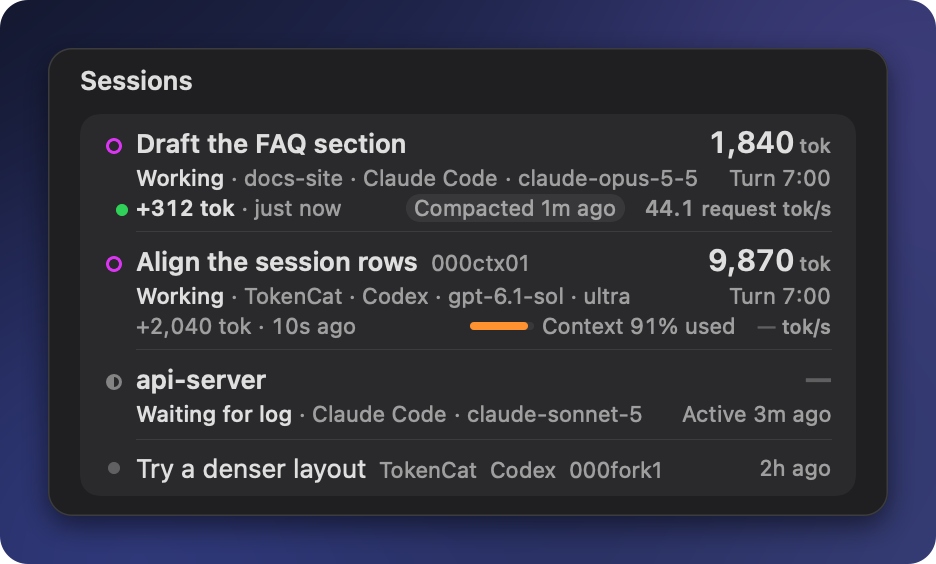
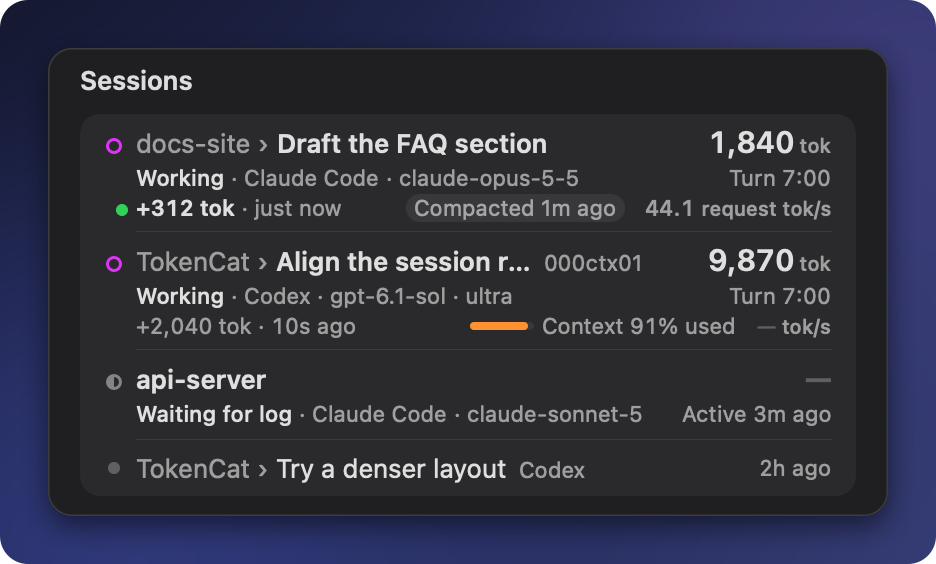
0.23.0: 세션 제목 앞에 프로젝트 폴더 표시, Windows 내레이터가 하위 에이전트 수를 읽음

diff --git a/Sources/TokenCat/DashboardView.swift b/Sources/TokenCat/DashboardView.swift
@@ -1655,8 +1655,12 @@ struct LiveSessionRow: View {
                 StateGlyphView(kind: StateGlyph.Kind(item.state) ?? .working, side: 8, contrast: high).frame(width: 10)
                     .alignmentGuide(.firstTextBaseline) { $0[.bottom] - 0.5 }
                     .padding(.leading, DashboardLayout.glyphX)
-                Text(SessionPresentation.rowTitle(reading)).font(TCFont.title).lineLimit(1).truncationMode(.tail).layoutPriority(2)
-                    .padding(.leading, DashboardLayout.textX - DashboardLayout.glyphX - 10)
+                HStack(alignment: .firstTextBaseline, spacing: 0) {
+                    ProjectPrefix(reading: reading, font: TCFont.title)
+                    Text(SessionPresentation.rowTitle(reading)).font(TCFont.title).lineLimit(1).truncationMode(.tail)
+                }
+                .layoutPriority(2)
+                .padding(.leading, DashboardLayout.textX - DashboardLayout.glyphX - 10)
                 if context.showsID(reading) {
                     Text(SessionPresentation.shortID(reading)).font(TCFont.meta).toneSecondary().lineLimit(1).fixedSize().padding(.leading, 6)
                 }
@@ -1712,12 +1716,9 @@ struct LiveSessionRow: View {
                 speed.known || item.state.expectsSpeed ? speed.spoken : nil].compactMap { $0 }.joined(separator: ", ")
     }
 
-    /// Keep the client identifiable; only the project and model may truncate in a dense state line.
+    /// Keep the client identifiable; only the model may truncate in a dense state line (the project leads line 1).
     private var clientMetadata: some View {
         HStack(alignment: .firstTextBaseline, spacing: 0) {
-            if let project = SessionPresentation.rowProject(reading) {
-                Text(" · " + project).lineLimit(1).truncationMode(.tail)
-            }
             Text(" · " + reading.clientTitle).fixedSize().layoutPriority(1)
             Text(" · " + [reading.model ?? loc("모델 기록 대기", "waiting for model"), SessionPresentation.effortLabel(reading)]
                 .compactMap { $0 }.joined(separator: " · "))
@@ -1844,13 +1845,28 @@ struct IdleSessionRow: View {
     /// Keep a titled row's project whole when it fits; long projects move to help before the client disappears.
     private func names(client: Bool, id: Bool, word: Bool, project showsProject: Bool = true) -> some View {
         HStack(alignment: .firstTextBaseline, spacing: 6) {
-            Text(SessionPresentation.rowTitle(reading)).font(TCFont.body).lineLimit(1).truncationMode(.tail).layoutPriority(2)
-            if showsProject, let project = SessionPresentation.rowProject(reading) {
-                Text(project).font(TCFont.meta).toneSecondary().lineLimit(1).fixedSize()
+            HStack(alignment: .firstTextBaseline, spacing: 0) {
+                if showsProject { ProjectPrefix(reading: reading, font: TCFont.body) }
+                Text(SessionPresentation.rowTitle(reading)).font(TCFont.body).lineLimit(1).truncationMode(.tail)
             }
+            .layoutPriority(2)
             if client { Text(reading.clientTitle).font(TCFont.meta).toneSecondary().lineLimit(1).fixedSize() }
             if word, let stateWord { Text(stateWord).font(TCFont.micro).toneSecondary().lineLimit(1).fixedSize() }
             if id { Text(SessionPresentation.shortID(reading)).font(TCFont.meta).toneSecondary().lineLimit(1).fixedSize() }
+        }
+    }
+}
+
+/// A titled row's project folder before its title (`SessionPresentation.projectPrefix`) in the secondary tone, kept whole
+/// while the title truncates; absent when the project already is the row's name.
+struct ProjectPrefix: View {
+    var reading: TokenReading
+    var font: Font
+
+    var body: some View {
+        let prefix = SessionPresentation.projectPrefix(reading)
+        if !prefix.isEmpty {
+            Text(prefix).font(font).fontWeight(.regular).toneSecondary().lineLimit(1).fixedSize()
         }
     }
 }

diff --git a/Sources/TokenCat/SessionPresentationChecks.swift b/Sources/TokenCat/SessionPresentationChecks.swift
@@ -153,6 +153,11 @@ func runSessionPresentationChecks() -> [String] {
           && SessionPresentation.titleHelp(titled) == "Fix login redirect · TokenCat" && SessionPresentation.titleHelp(modelled) == nil
           && SessionPresentation.spokenLabel(titled, state: .input) == "입력 필요, Fix login redirect, TokenCat, Claude Code claude-opus-5-5",
           "a titled row leads with its title and keeps the project as meta, in help and in VoiceOver")
+    var longProject = titled
+    longProject.project = "an-extremely-long-project-folder-name"
+    check(SessionPresentation.projectPrefix(titled) == "TokenCat › " && SessionPresentation.projectPrefix(modelled) == ""
+          && SessionPresentation.projectPrefix(titledNoProject) == "" && SessionPresentation.projectPrefix(longProject) == "an-extrem…older-name › ",
+          "a titled row is led by its project folder, a long folder keeping both ends; an untitled row is not")
     var roleChild = claudeChild
     roleChild.agentRole = "Explore"
     var reviewChild = codexChild

diff --git a/Sources/TokenCat/SessionPresentation.swift b/Sources/TokenCat/SessionPresentation.swift
@@ -553,6 +553,12 @@ enum SessionPresentation {
         return project
     }
 
+    /// "TokenCat › " before a titled row's name: a long folder keeps its ends; empty when the project already is the name.
+    static func projectPrefix(_ reading: TokenReading) -> String {
+        guard let project = rowProject(reading) else { return "" }
+        return (project.count > 20 ? project.prefix(9) + "…" + project.suffix(10) : project) + " › "
+    }
+
     /// A titled row's hover line: the whole title (the row cuts it) and the project.
     static func titleHelp(_ reading: TokenReading) -> String? {
         reading.title.map { title in [title, reading.project].compactMap { $0 }.joined(separator: " · ") }

diff --git a/windows/TokenCat.App/SessionList.cs b/windows/TokenCat.App/SessionList.cs
@@ -629,7 +629,7 @@ sealed class LiveRow : RowShell
     readonly TextBlock number = Ui.Line();
     readonly Run outputAmount = Ui.Run("", Font.Metric), outputUnit = Ui.Run(" tok", Font.Micro, Theme.Secondary);
     readonly TextBlock chipWords = Ui.Text("", Font.MetaMedium);
-    readonly TextBlock clientProject = TrimLine.Shrink(Ui.Text("", Font.Meta, Theme.Secondary));
+    readonly Run projectPrefix = Ui.Run("", Font.Title, Theme.Secondary), title = Ui.Run("", Font.Title);
     readonly TextBlock client = Ui.Text("", Font.Meta, Theme.Secondary);
     readonly TextBlock clientModel = TrimLine.Shrink(Ui.Text("", Font.Meta, Theme.Secondary));
     readonly TextBlock trailing = Ui.Text("", Font.MetaMono);
@@ -640,6 +640,9 @@ sealed class LiveRow : RowShell
     public LiveRow()
     {
         project.Margin = new Thickness(6, 0, 0, 0);
+        projectPrefix.FontWeight = FontWeights.Normal;
+        project.Inlines.Add(projectPrefix);
+        project.Inlines.Add(title);
         shortId.Margin = new Thickness(6, 0, 0, 0);
         chipWords.TextTrimming = TextTrimming.None;
         number.Inlines.Add(outputAmount);
@@ -650,7 +653,7 @@ sealed class LiveRow : RowShell
         first.Height = 18;
         // Keep the client name whole; the project and model divide the remaining metadata width.
         client.TextTrimming = TextTrimming.None;
-        var metadata = TrimLine.Shrink(new TrimLine(clientProject, client, clientModel));
+        var metadata = TrimLine.Shrink(new TrimLine(client, clientModel));
         var second = Dashboard.Spread(new TrimLine(chipWords, metadata), trailing);
         second.Height = 14;
         second.Margin = new Thickness(Dashboard.TextX, 2, 0, 0);
@@ -668,7 +671,8 @@ sealed class LiveRow : RowShell
         Bind(item.Id, reading, context, item.Height, context.Help(reading), SessionPresentation.SpokenLabel(reading, item.State));
         glyph.Kind = GlyphView.For(item.State) ?? StateGlyphKind.Working;
         chipWords.Text = SessionPresentation.ChipText(item.State, reading);
-        project.Text = SessionPresentation.RowTitle(reading);
+        projectPrefix.Text = SessionPresentation.ProjectPrefix(reading);
+        title.Text = SessionPresentation.RowTitle(reading);
         shortId.Visibility = context.ShowsID(reading) ? Visibility.Visible : Visibility.Collapsed;
         shortId.Text = SessionPresentation.ShortID(reading);
 
@@ -689,9 +693,6 @@ sealed class LiveRow : RowShell
             Ui.Help(number, Loc("현재 턴 시작 부분을 읽지 못해 이번 턴 누적량을 알 수 없습니다", "Couldn't read the start of this turn, so its total is unknown"));
         }
 
-        var rowProject = SessionPresentation.RowProject(reading);
-        clientProject.Text = rowProject is null ? "" : " · " + rowProject;
-        clientProject.Visibility = rowProject is null ? Visibility.Collapsed : Visibility.Visible;
         client.Text = " · " + reading.ClientTitle;
         var effort = SessionPresentation.EffortLabel(reading);
         clientModel.Text = " · " + (reading.Model ?? Loc("모델 기록 대기", "waiting for model")) + (effort is null ? "" : " · " + effort);
@@ -831,9 +832,11 @@ sealed class IdleRow : RowShell
         var rowProject = SessionPresentation.RowProject(reading);
         FrameworkElement Names(bool withId, bool withWord, bool trim, bool withProject = true)
         {
-            var title = Ui.Text(SessionPresentation.RowTitle(reading), Font.Body);
+            var title = Ui.Text("", Font.Body);
+            if (withProject && rowProject is not null)
+                title.Inlines.Add(new Run(SessionPresentation.ProjectPrefix(reading)) { Foreground = Theme.Brush(Theme.Secondary) });
+            title.Inlines.Add(new Run(SessionPresentation.RowTitle(reading)));
             return new TrimLine(trim ? TrimLine.Shrink(title) : title,
-                withProject && rowProject is not null ? Spaced(Ui.Text(rowProject, Font.Meta, Theme.Secondary)) : null,
                 Spaced(Ui.Text(reading.ClientTitle, Font.Meta, Theme.Secondary)),
                 withWord && word is not null ? Spaced(Ui.Text(word, Font.Micro, Theme.Secondary)) : null,
                 withId ? Spaced(Ui.Text(SessionPresentation.ShortID(reading), Font.Meta, Theme.Secondary)) : null);

diff --git a/windows/TokenCat.Core/Presentation/StatusSummary.cs b/windows/TokenCat.Core/Presentation/StatusSummary.cs
@@ -289,8 +289,11 @@ public static class StatusBarContent
                     var shown = waitingOnly ? ai.Waiting : ai.Running > 0 && ai.Phase == TokenActivityState.Input ? ai.Input : ai.Running;
                     var value = hasTokenSample ? shown.ToString(CultureInfo.InvariantCulture) : "—";
                     var state = !hasTokenSample ? TokenActivityState.Idle : ai.Running > 0 ? ai.Phase : waitingOnly ? TokenActivityState.Stale : TokenActivityState.Idle;
+                    var subagents = hasTokenSample && ai.Running > 0 ? Math.Min(ai.Subagents, 99) : 0;
+                    // Narrator reads the drawn "↳N" as words, so the badge is never visual-only.
                     metrics.Add(new(id, "AI", value, hasTokenSample && ai.Running > 0, state,
-                        Subagents: hasTokenSample && ai.Running > 0 ? Math.Min(ai.Subagents, 99) : 0));
+                        Detail: subagents > 0 ? $"AI {value}, " + Loc($"하위 에이전트 {subagents}개 실행 중", $"{subagents} subagents running") : null,
+                        Subagents: subagents));
                     break;
                 case MetricID.AverageSpeed:
                     // The contributing clients' glyphs, or "AVG" without a measurement, label the item; the unit is split off and

diff --git a/windows/TokenCat.Core/Checks/SessionPresentationChecks.cs b/windows/TokenCat.Core/Checks/SessionPresentationChecks.cs
@@ -118,6 +118,9 @@ public static class SessionPresentationChecks
               && TitleHelp(titled) == "Fix login redirect · TokenCat" && TitleHelp(modelled) == null
               && SpokenLabel(titled, S.Input) == "입력 필요, Fix login redirect, TokenCat, Claude Code claude-opus-5-5",
               "a titled row leads with its title and keeps the project as meta, in help and in VoiceOver");
+        check(ProjectPrefix(titled) == "TokenCat › " && ProjectPrefix(modelled) == "" && ProjectPrefix(titledNoProject) == ""
+              && ProjectPrefix(titled with { Project = "an-extremely-long-project-folder-name" }) == "an-extrem…older-name › ",
+              "a titled row is led by its project folder, a long folder keeping both ends; an untitled row is not");
         var roleChild = claudeChild with { AgentRole = "Explore" };
         var reviewChild = codexChild with { AgentRole = "guardian" };
         check(ChildTitle(roleChild) == ("Explore", "b1234567") && ChildTitle(claudeChild) == ("하위 에이전트", "b1234567")

diff --git a/windows/TokenCat.Core/Presentation/SessionPresentation.cs b/windows/TokenCat.Core/Presentation/SessionPresentation.cs
@@ -656,6 +656,11 @@ public static class SessionPresentation
     public static string? RowProject(TokenReading reading) =>
         reading.Title is not null && reading.Project is { Length: > 0 } project ? project : null;
 
+    /// "TokenCat › " before a titled row's name (the mac's 120 pt prefix): a long folder keeps its ends; empty when the
+    /// project already is the name.
+    public static string ProjectPrefix(TokenReading reading) => RowProject(reading) is { } project
+        ? (project.Length > 20 ? project[..9] + "…" + project[^10..] : project) + " › " : "";
+
     /// A titled row's hover line: the whole title (the row cuts it) and the project.
     public static string? TitleHelp(TokenReading reading) =>
         reading.Title is { } title ? string.Join(" · ", new[] { title, reading.Project }.OfType<string>()) : null;

diff --git a/windows/TokenCat.Core/Checks/StatusSummaryChecks.cs b/windows/TokenCat.Core/Checks/StatusSummaryChecks.cs
@@ -88,6 +88,8 @@ public static class StatusSummaryChecks
               && aiItem([lead, helper(0, A.Complete)]).Subagents == 0 && aiItem([stale]).Subagents == 0
               && aiItem([lead, .. Enumerable.Range(0, 120).Select(index => helper(index))]).Subagents == 99
               && aiItem([lead, helper(0)], hasTokenSample: false).Subagents == 0);
+        check("Narrator hears the running subagent count, not only the session count",
+              aiItem([lead, helper(0), helper(1), helper(2)]).Spoken == "AI 1, 하위 에이전트 3개 실행 중" && aiItem([lead]).Spoken == "AI 1");
         var badgeWidths = new List<string>();
         foreach (var layout in Enum.GetValues<StatusBarLayout>())
             foreach (var runner in new[] { true, false })

diff --git a/docs/DETAILS.md b/docs/DETAILS.md
@@ -29,9 +29,9 @@ Click the menu bar item to open the dashboard as a popover; closing it with Esc 
 - **Output tokens**: the number of output tokens recorded in the logs over the last 5 minutes, with the total on the card's title line and 5-second bars under it. The bars are amounts recorded and are never converted into a speed. The scale is picked from {1, 1.5, 2, 3, 4, 5, 6, 8}×10ⁿ so the tallest bar fills at least 2/3, with minute ticks, and is given in the chart's help. When more than one client records, the total is split beside the title, largest first, as in `Claude Code 6.6k · Codex 1.2k`; clients that don't fit fold into `+N more`, down to the largest alone, then the split goes. The line under the title shows the increase and time of the last record, and from 30 seconds after the last record it gives the reason for waiting (API retry, a tool category such as `Running command`, working, waiting for log), beside the record when both fit. A session waiting for input or plan approval isn't repeated here: the header and its row already say it. With no records in 5 minutes and no working session, the card collapses into one line. The ⓘ can also be opened from the keyboard.
 - **Speed now**: at the end of the line under the title, as in `Speed now · Install guide 55.6 generation tok/s`, named by the row's title (a subagent's by its project). It's the single most recent measurement received within 2 minutes among the visible working rows (subagents included), using only a value measured with that row's current model and leaving out clients waiting for a restart. Sessions are never summed or averaged, and it's never derived from log timestamps. Without such a measurement, `No measured speed` appears only when there's a row that's working, running a tool or retrying the API (with the reason in its help: no measurement in the last 2 minutes, measured with the previous model, or a restart needed), and it's hidden when rows are only waiting for input or logs, or nothing is working. When space runs short the label is dropped first, then the title. The help gives the session's title and project, model, measurement time and basis, and VoiceOver reads the unit kind, value and title.
 - **Session list**: working sessions go on top, and the order doesn't change while the pointer is over the list or a menu is open. Output is an event, not a state, so it has no chip of its own: with a record just now (within 5 seconds), the row shows a green dot and `+617 tok · just now`, and after that the last record without a dot, as in `+617 tok · 10s ago`.
-  - Working rows: the state glyph in the glyph column and the session's title (else its project) and a short ID on the text column shared by every row, the output so far this turn (the largest text); the second line opens with the state in words (`Waiting for plan approval`, `Waiting for an answer`, `API retry`, a tool category such as `Running command`, `Working`, `Waiting for log`), then the project (when the title is the session's own), the client, model and Codex effort, and ends with the turn's elapsed time (on rows needing input, how long they've waited, `m:ss`); then the last record and context (for Codex, `Context 61% used` against the recorded window, orange at 85% or more; Claude Code doesn't record its window size, so an absolute `Context 182k`).
+  - Working rows: the state glyph in the glyph column and the project folder in gray with `›` before the session title (when the title is the session's own; else the project alone) and a short ID on the text column shared by every row, the output so far this turn (the largest text); the second line opens with the state in words (`Waiting for plan approval`, `Waiting for an answer`, `API retry`, a tool category such as `Running command`, `Working`, `Waiting for log`), then the client, model and Codex effort, and ends with the turn's elapsed time (on rows needing input, how long they've waited, `m:ss`); then the last record and context (for Codex, `Context 61% used` against the recorded window, orange at 85% or more; Claude Code doesn't record its window size, so an absolute `Context 182k`).
   - The speed column appears only when at least one visible working row has a measurement (from a client not waiting for a restart). An unknown value is `— tok/s` (with the unit, so it doesn't read as a divider) and is never estimated from log timestamps, and this placeholder appears only on rows that may be generating: working, running a tool or retrying the API. Rows waiting for input or logs show a speed only when they have a measured value, and a third line is never added just for the speed column.
-  - Idle rows: the session's title (else its project) with the project after it, the client, the output of the last completed turn (`Last turn 4.8k`) and its age (fixed width, so `Last turn` sits in the same spot on every row). `No end record` and `Interrupted` are told apart by ring glyphs, and also written in small text after the client when there's room.
+  - Idle rows: the project folder in gray with `›` before the session title (else the project alone), the client, the output of the last completed turn (`Last turn 4.8k`) and its age (fixed width, so `Last turn` sits in the same spot on every row). `No end record` and `Interrupted` are told apart by ring glyphs, and also written in small text after the client when there's room.
   - Subagents follow their exact parent session with tree guides. Each is titled by a distinguishing role or nickname (the Codex role or nickname, the `agentType` from the Claude Code sidecar, `Auto review` for Codex automatic review); without one (or with a common role) it reads `Subagent · a2222222`, its 8-character ID beside it. On the right are the last record's age and the output this turn. Every running subagent is shown, and those waiting for logs are grouped as `+N subagents waiting for log ⌄`, which expands the list at that group.
   - The collapsed list ends with its one disclosure row: `Show all N sessions ⌄` when sessions are folded away, `Show N more subagents ⌄` when only subagents no `+N` line offers are, and `Show less ⌃` once expanded. The expanded list splits sessions that aren't working into `Today`, `Yesterday`, `This week` and `Earlier`, with `Earlier` collapsed. Rows have a fixed height, and the list shows up to 312 pt (the full remaining height in the panel) and scrolls the rest.
 - **Row details and menu**: click a row or press Return to open inline details (copy the session ID, agent, model, running tool name, the last completed turn's output and duration, record times), with `Copy Resume Command` and `Show in Finder` (the project folder, else the log file) buttons when they apply. The two values are never divided into a speed. Right-click (VoiceOver actions included) offers `Copy Session ID`, `Copy Agent ID`, `Copy Resume Command` (`cd '<path>' && claude --resume <ID>` or `codex resume <ID>`, main sessions only, and not offered when the path or ID contains a backslash or control character, since a shell or terminal could read it differently), `Show Log File in Finder` and `Show Project Folder in Finder`. The other resume commands are `opencode --session`, `gemini --resume`, `copilot --resume`, `amp threads continue`, `grok --resume`, `hermes --resume`, `kimi -r` and `goose session --resume --session-id`; Qwen Code, Cline, omp, Droid, Cursor and OpenClaw have none, nor does a row shown under another product's name (TRAE CLI, OpenClaude, Qoder, Kilo Code, MiMo Code, Kimi Work, Kimi CLI and the like). File contents are never opened. On the keyboard, ↑↓ moves, Return or Space opens details, ⌘C copies the ID and ⌘⇧C the resume command (on macOS 13, click the list once first).
@@ -186,7 +186,7 @@ The header and session rows carry log-wait state and elapsed time. The output ca
 
 Running tools are categorized by name alone into running a command, file operations, web lookups, subagents, MCP, questions and other. Tool inputs aren't read, and the original tool name appears only in the help. From Claude Code API retry records, only the retry count, maximum count, wait time and whether the network is down are read (`Retry 2/10 · in 4s`); error messages aren't stored, and the state clears when the next response arrives or the turn ends.
 
-A session row is named by the client's own session title when there is one, with the project folder kept beside it (on a live row at the start of the second line; on a quiet row after the title, which is cut first); help, VoiceOver and `Speed now` name both. Only titles the client generated or you set by renaming are read, newest first, and they update as the client renames or regenerates them: Claude Code's `custom-title` (`/rename`) over its `ai-title` over an older `summary` record; Codex's thread names in `~/.codex/session_index.jsonl`; OpenCode's, Kilo Code's and MiMo Code's `session.title` once it replaces the `New session - <time>` placeholder (MiMo's fallback titles are dropped); omp's title slot and `title_change` records, Pi's `session_info` name; Gemini CLI's generated `summary`; Qwen Code's `custom_title` records; Copilot CLI's `workspace.yaml` `name`, else its generated `summary`; Amp's thread `title`; Droid's `session_start` title once it's generated or renamed; Cursor's generated chat name; Grok's generated or `/rename` title; Hermes's title set by its model or by you; OpenClaw's label or generated display name; Goose's generated, recipe or renamed name; Kimi Code's generated or custom title. Cline, Roo Code, Kilo Code's extension, Zoo Code and IBM Bob have none (their task title is the first prompt), nor do Kimi CLI sessions, a Droid session whose title is still its first message, a Hermes `derived` title, a Grok title that copies the first prompt, or a Goose session on a CLI or ACP agent provider until you rename it. A title is cut to one line of 80 characters, with control characters and invisible formatting removed; it's kept in memory only, never written to disk or sent, and `--diagnose` prints it with the other session metadata.
+A session row is named by the client's own session title when there is one, with the project folder before it in gray, as in `TokenCat › Fix login redirect` (a long folder is cut in the middle, and on a crowded quiet row the folder goes first); help, VoiceOver and `Speed now` name both. Only titles the client generated or you set by renaming are read, newest first, and they update as the client renames or regenerates them: Claude Code's `custom-title` (`/rename`) over its `ai-title` over an older `summary` record; Codex's thread names in `~/.codex/session_index.jsonl`; OpenCode's, Kilo Code's and MiMo Code's `session.title` once it replaces the `New session - <time>` placeholder (MiMo's fallback titles are dropped); omp's title slot and `title_change` records, Pi's `session_info` name; Gemini CLI's generated `summary`; Qwen Code's `custom_title` records; Copilot CLI's `workspace.yaml` `name`, else its generated `summary`; Amp's thread `title`; Droid's `session_start` title once it's generated or renamed; Cursor's generated chat name; Grok's generated or `/rename` title; Hermes's title set by its model or by you; OpenClaw's label or generated display name; Goose's generated, recipe or renamed name; Kimi Code's generated or custom title. Cline, Roo Code, Kilo Code's extension, Zoo Code and IBM Bob have none (their task title is the first prompt), nor do Kimi CLI sessions, a Droid session whose title is still its first message, a Hermes `derived` title, a Grok title that copies the first prompt, or a Goose session on a CLI or ACP agent provider until you rename it. A title is cut to one line of 80 characters, with control characters and invisible formatting removed; it's kept in memory only, never written to disk or sent, and `--diagnose` prints it with the other session metadata.
 
 Codex usage limits use the usage percentage, window and reset time recorded in the logs, together with the record time. Claude usage limits use the values received through the [status line bridge](#claude-usage-limits-and-the-status-line-bridge), not the logs, together with the time received, and the Claude desktop app's usage history together with its record time. For both, a [live check](#live-usage-limits) is used with the time it was received, and [omp's and Pi's usage history](#omp-and-pi-usage-history) with its record time. For context, Codex uses the input tokens of the last response and the model context window from the same record, and Claude Code uses the sum of input and cache tokens. The Claude Code window size is never guessed from the model name, and for compaction only the time of the completion record is shown.
 

diff --git a/CHANGELOG.md b/CHANGELOG.md
@@ -2,6 +2,13 @@
 
 The release workflow puts the `## <version>` entry into that version's release notes. · 릴리스 워크플로가 `## <버전>` 항목을 그 버전의 릴리스 노트에 넣습니다.
 
+## 0.23.0
+
+**macOS and Windows**
+
+- A session titled by its client now shows its project folder first, in gray, as in `TokenCat › Settings cleanup`; a long folder keeps both ends. The folder no longer repeats on the second line. · 클라이언트가 붙인 제목이 있는 세션은 `TokenCat › Settings cleanup`처럼 프로젝트 폴더를 제목 앞에 회색으로 보여 주며, 긴 폴더 이름은 앞뒤를 남기고 줄입니다. 둘째 줄에서는 폴더를 다시 적지 않습니다.
+- Windows: Narrator reads the widget's running subagent count. · Windows: 내레이터가 위젯의 실행 중인 하위 에이전트 수를 읽습니다.
+
 ## 0.22.0
 
 **macOS and Windows**
